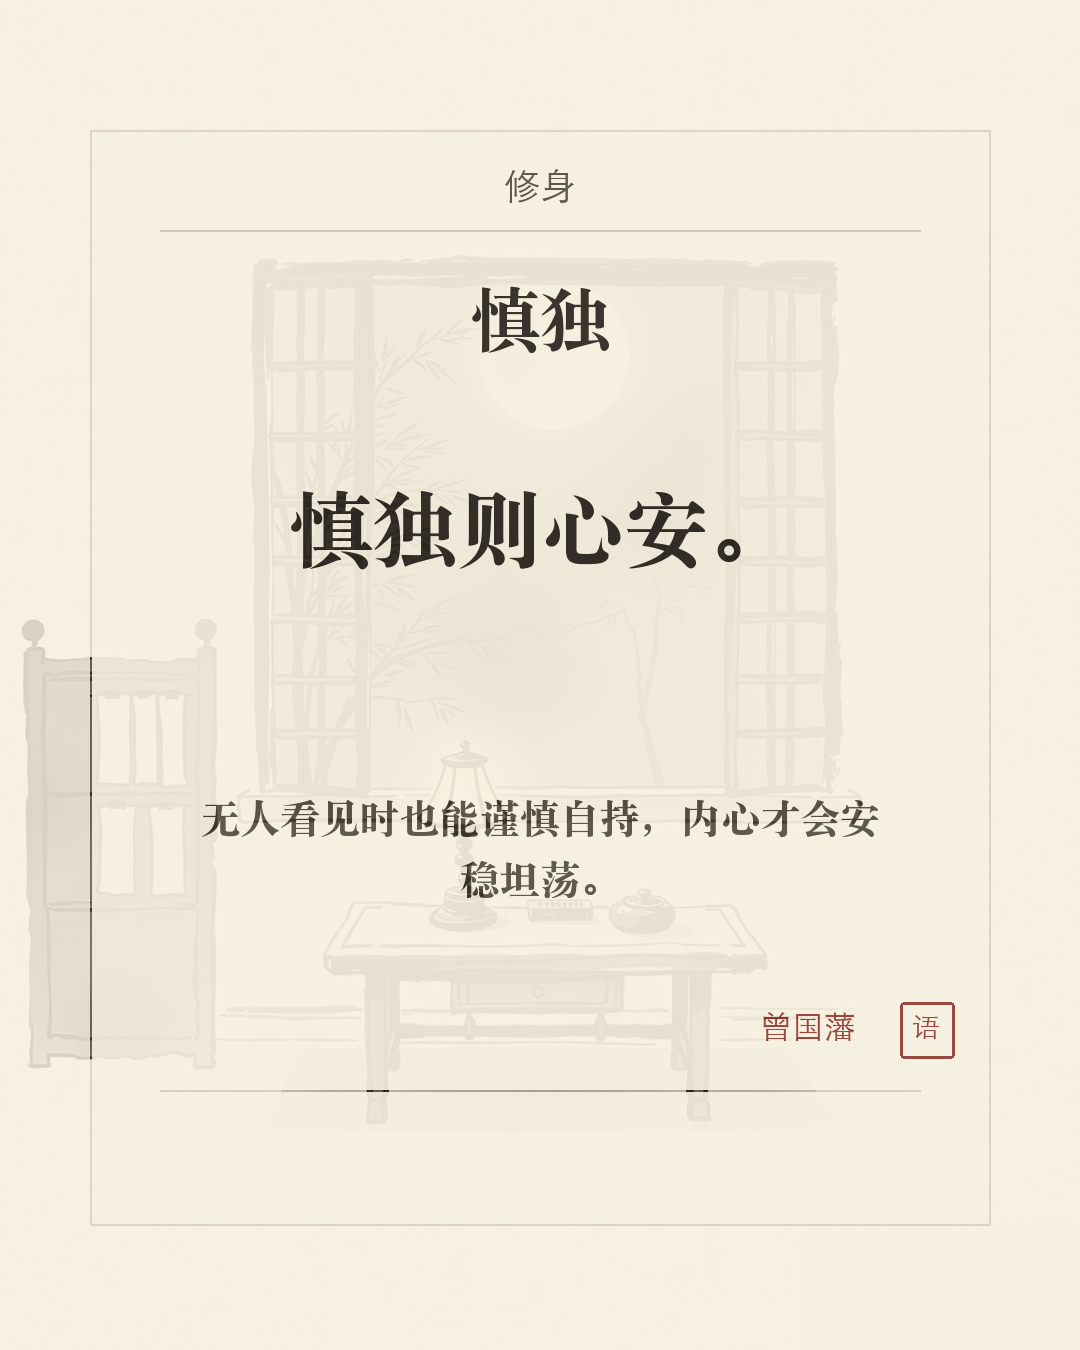
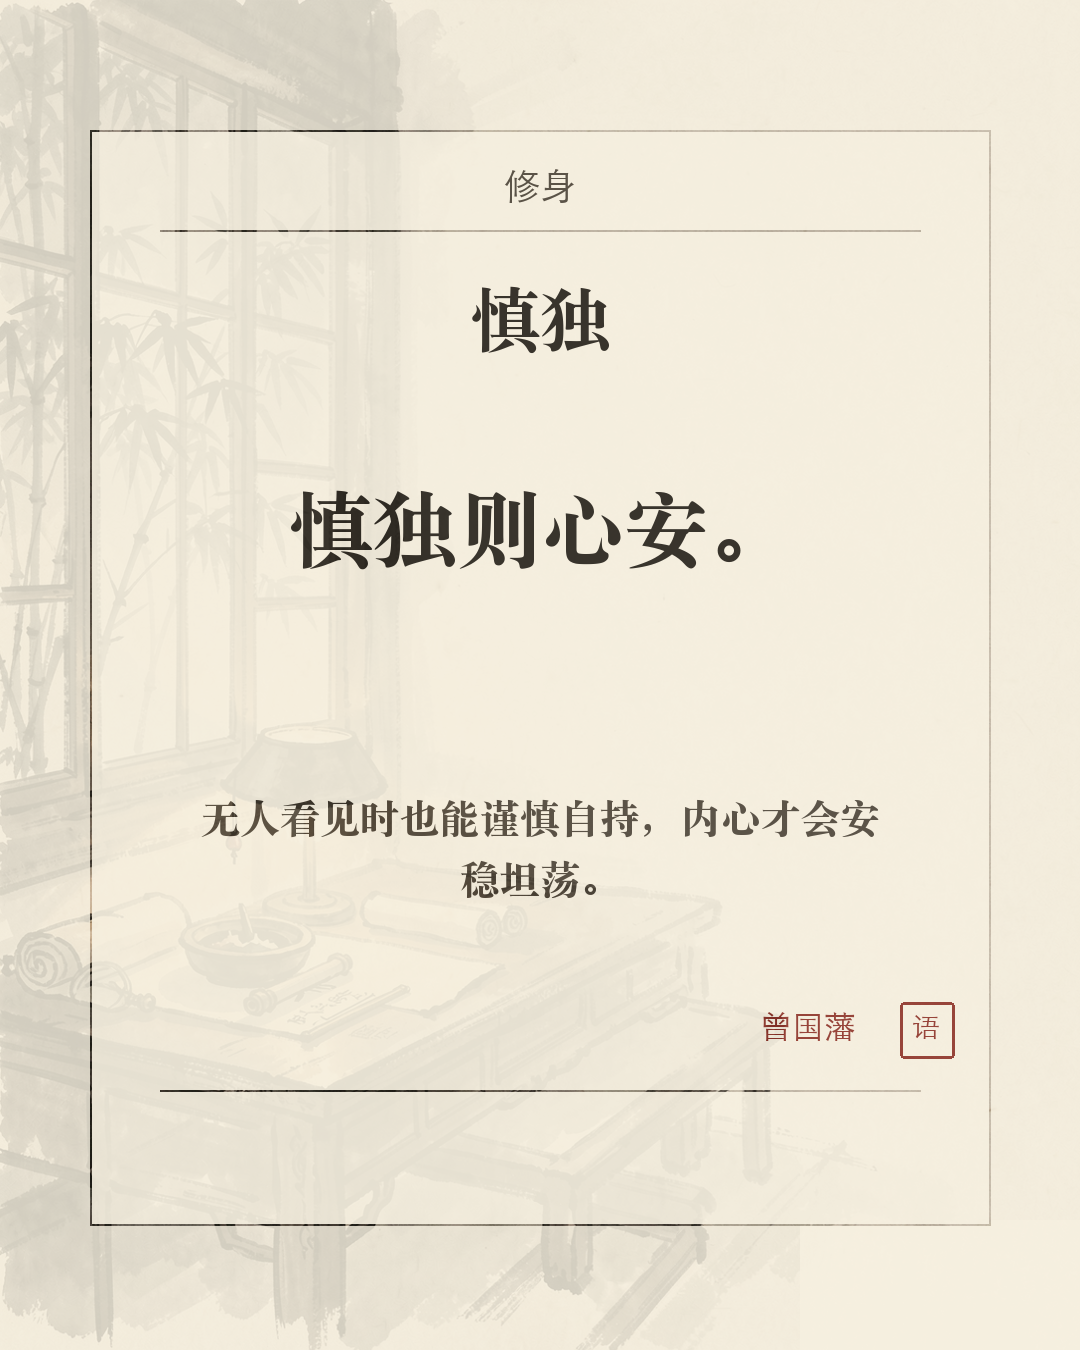
避免重复生成

diff --git a/generate_card.py b/generate_card.py
@@ -45,6 +45,10 @@ def load_quotes() -> list[Quote]:
     return [Quote(**row) for row in rows]
 
 
+def already_generated(quote_id: str) -> bool:
+    return (OUTPUT_DIR / f"{quote_id}_card.png").exists()
+
+
 def pick_quote(quotes: list[Quote], quote_id: str | None, category: str | None) -> Quote:
     if quote_id:
         for quote in quotes:
@@ -52,12 +56,15 @@ def pick_quote(quotes: list[Quote], quote_id: str | None, category: str | None) 
                 return quote
         raise SystemExit(f"未找到语录 ID: {quote_id}")
 
-    candidates = quotes
+    candidates = [q for q in quotes if not already_generated(q.id)]
     if category:
-        candidates = [quote for quote in quotes if quote.category == category]
+        candidates = [quote for quote in candidates if quote.category == category]
         if not candidates:
             available = "、".join(sorted({quote.category for quote in quotes}))
             raise SystemExit(f"未找到分类: {category}。可用分类：{available}")
+
+    if not candidates:
+        raise SystemExit("所有语录卡片均已生成，没有待生成的语录了。")
 
     return random.choice(candidates)
 